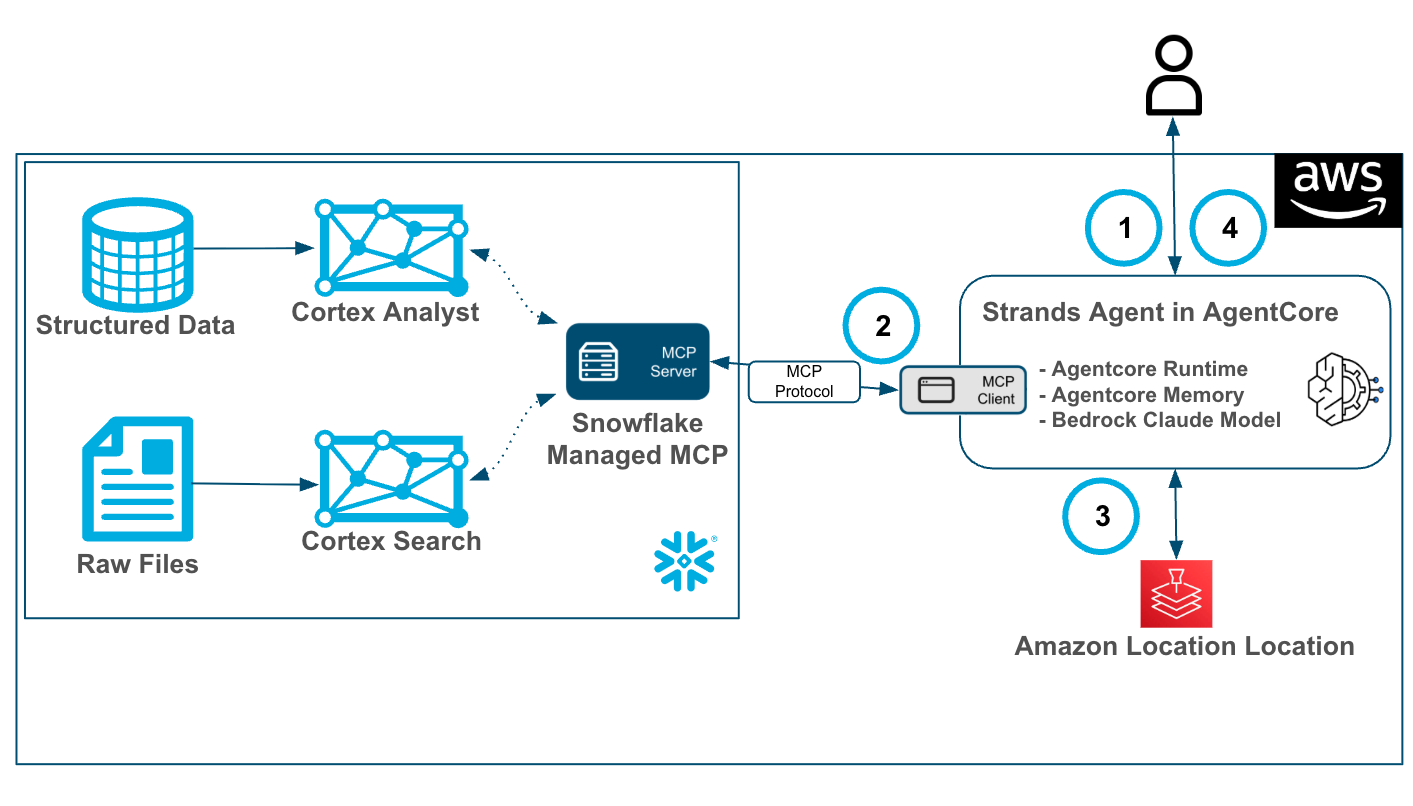
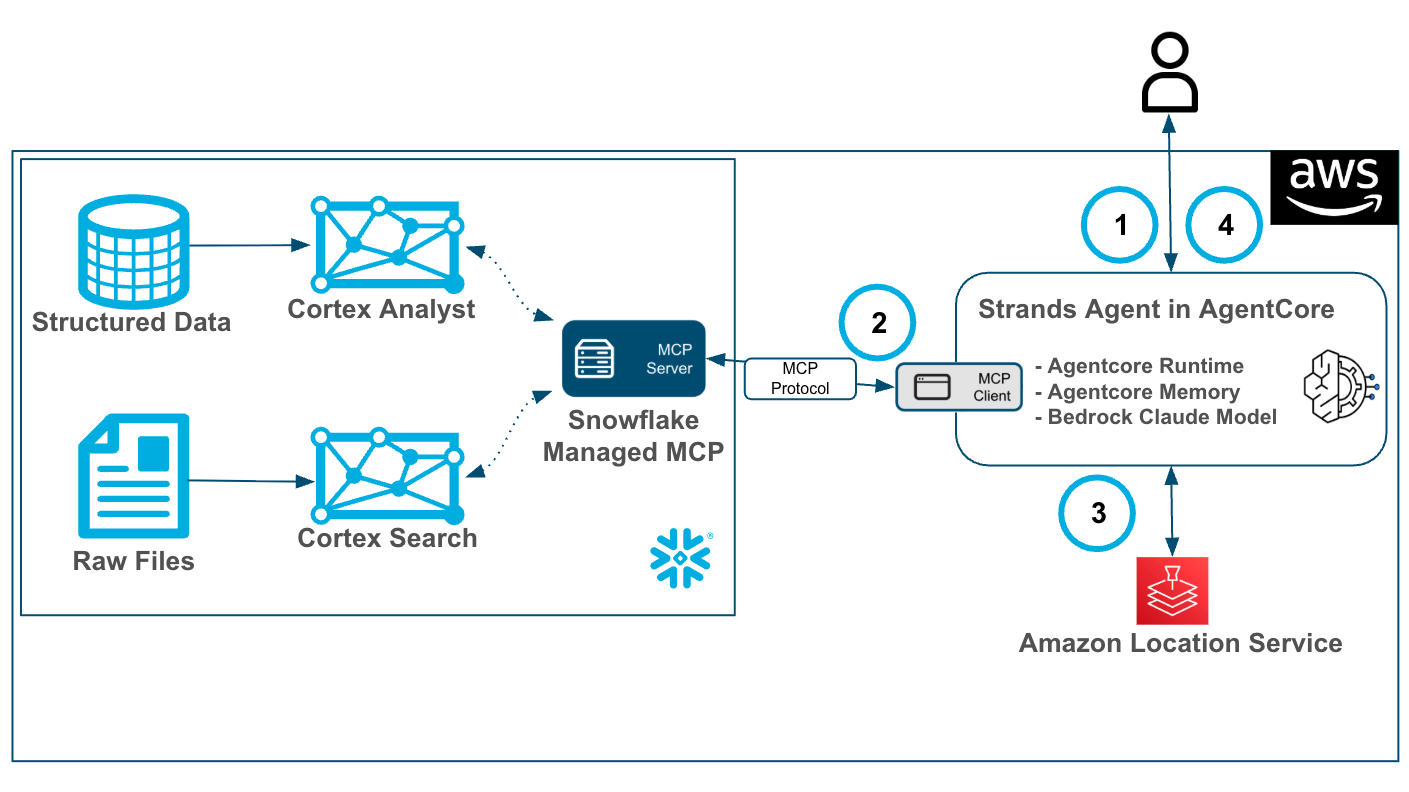
fix arch

diff --git a/site/sfguides/src/getting-started-with-snowflake-managed-mcp-and-bedrock-agentcore/getting-started-with-snowflake-managed-mcp-and-bedrock-agentcore.md b/site/sfguides/src/getting-started-with-snowflake-managed-mcp-and-bedrock-agentcore/getting-started-with-snowflake-managed-mcp-and-bedrock-agentcore.md
@@ -11,7 +11,7 @@ feedback link: https://github.com/Snowflake-Labs/sfguides/issues
 <!-- ------------------------ -->
 ## Overview 
 
-[Cortex Agents](https://docs.snowflake.com/en/user-guide/snowflake-cortex/cortex-agents?_ga=2.250671172.333951290.1762188306-997782433.1760623519) orchestrate across both structured and unstructured data sources to deliver insights. They plan tasks, use tools to execute these tasks, and generate responses. Agents use Cortex Analyst (structured) and Cortex Search (unstructured) as tools, along with LLMs, to analyze data. Cortex Search extracts insights from unstructured sources, while Cortex Analyst generates SQL to process structured data. A comprehensive support for tool identification and tool execution enables delivery of sophisticated applications grounded in enterprise data.
+[Cortex](https://www.snowflake.com/en/product/features/cortex/) orchestrate across both structured and unstructured data sources to deliver insights. They plan tasks, use tools to execute these tasks, and generate responses. Agents use Cortex Analyst (structured) and Cortex Search (unstructured) as tools, along with LLMs, to analyze data. Cortex Search extracts insights from unstructured sources, while Cortex Analyst generates SQL to process structured data. A comprehensive support for tool identification and tool execution enables delivery of sophisticated applications grounded in enterprise data.
 
 [The Snowflake-managed MCP server](https://docs.snowflake.com/en/user-guide/snowflake-cortex/cortex-agents-mcp) lets AI agents securely retrieve data from Snowflake accounts without needing to deploy separate infrastructure. You can configure the MCP server to serve Cortex Analyst and Cortex Search as tools on the standards-based interface. MCP clients discover and invoke these tools, and retrieve data required for the application. With managed MCP servers on Snowflake, you can build scalable enterprise-grade applications while maintaining access and privacy controls.
 
